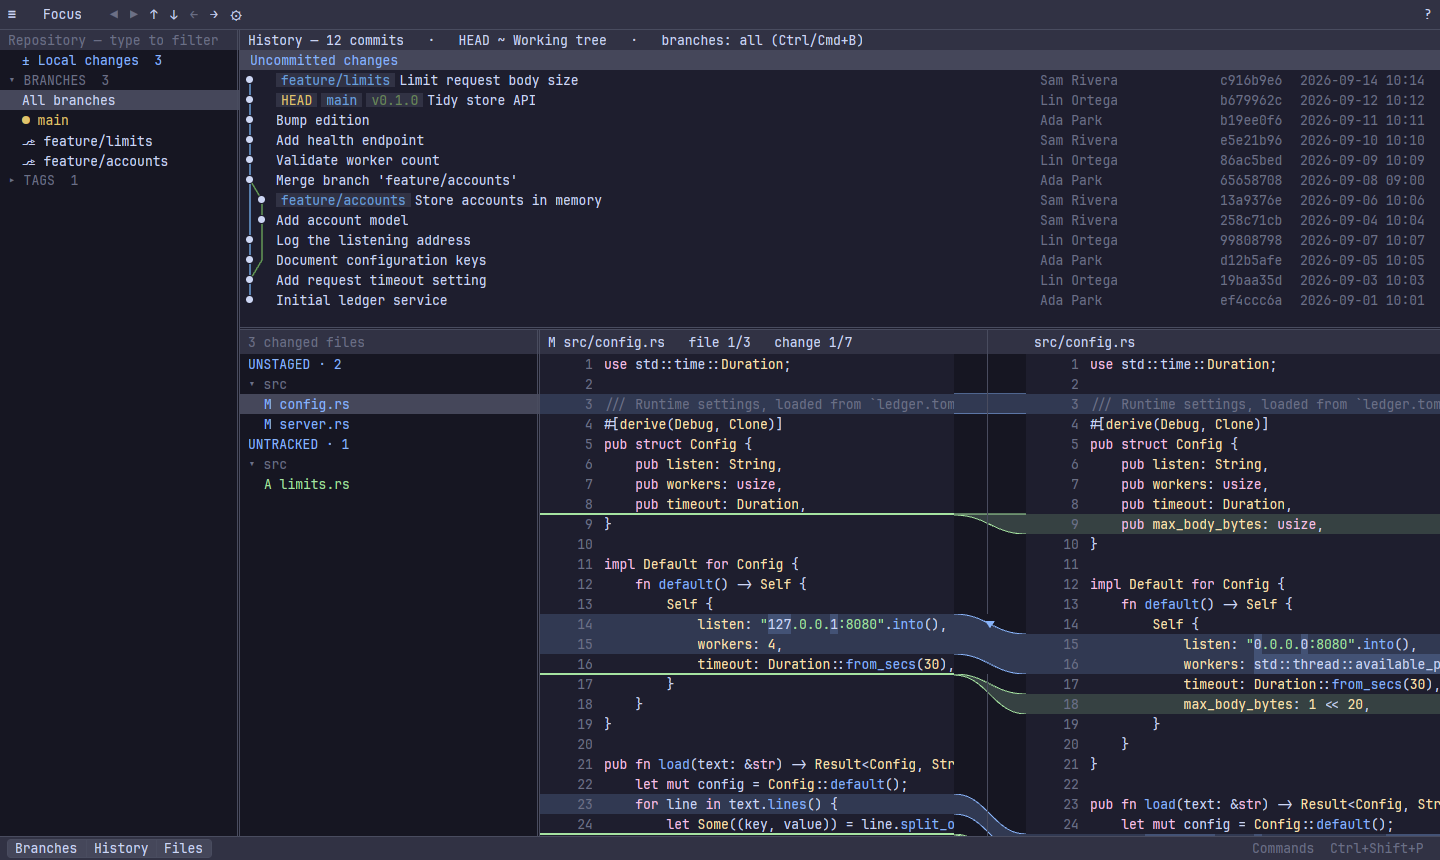
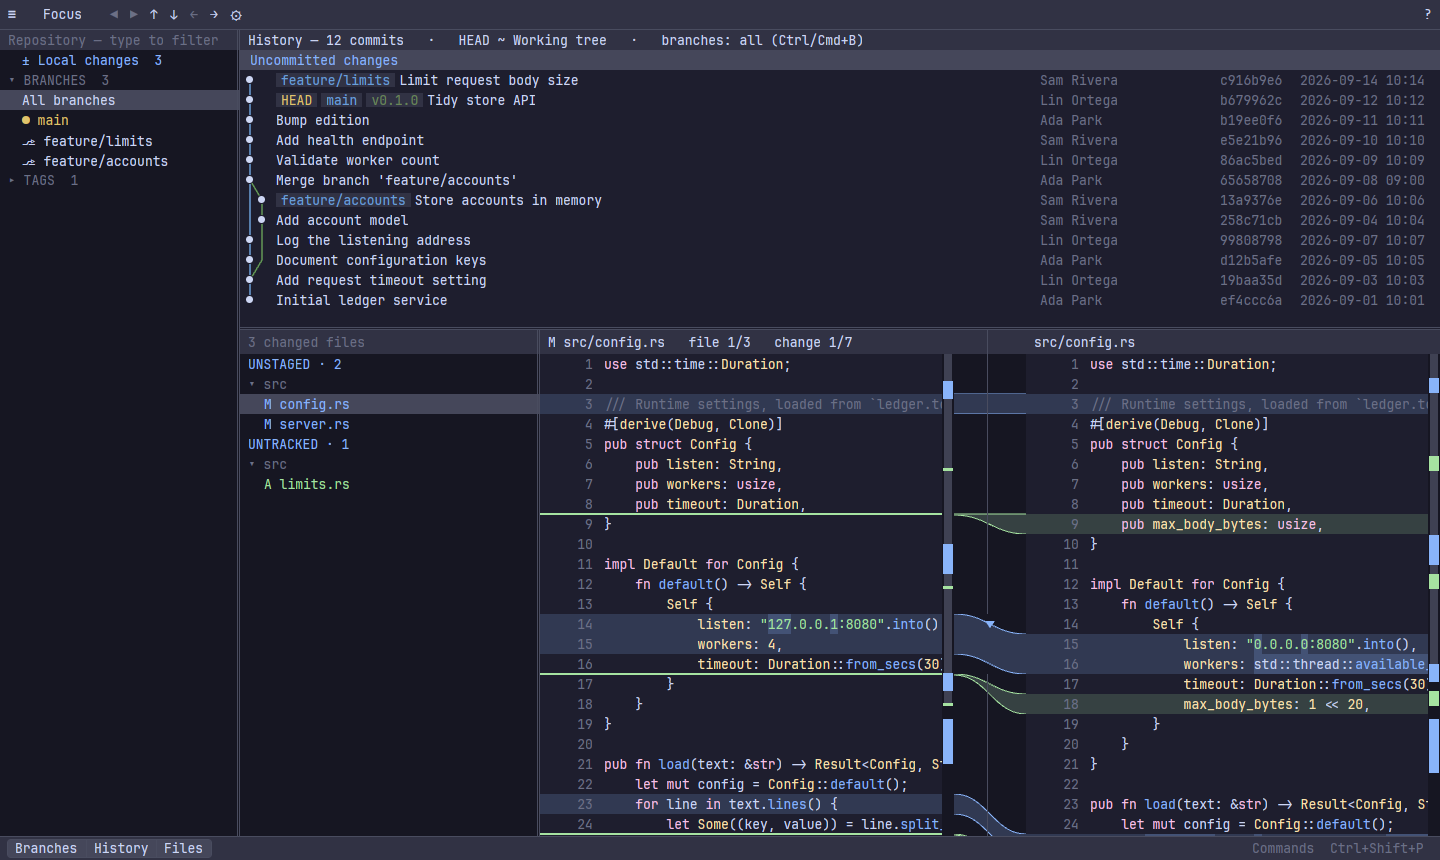
docs: README screenshots with scrollbars
Recaptured with scripts/capture-screenshots.py. The Lenz Code reveal
click follows the explorer's button, which moved below the new toolbar.

diff --git a/scripts/capture-screenshots.py b/scripts/capture-screenshots.py
@@ -367,7 +367,7 @@ def main():
                     screen.key(win, 'period' if c == '.' else c)
                 screen.key(win, 'Return')
                 time.sleep(2)
-                screen.click(win, 266, 10)  # Reveal the opened file in the explorer.
+                screen.click(win, 266, 38)  # Reveal the opened file in the explorer (its button, right of the explorer title).
                 for key in keys:
                     screen.key(win, *key)
                 screen.click_away(win)
